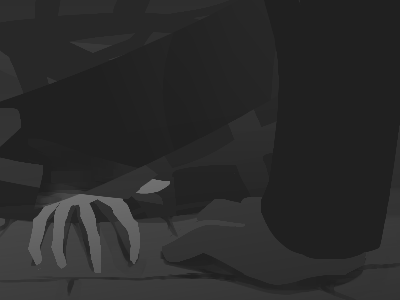
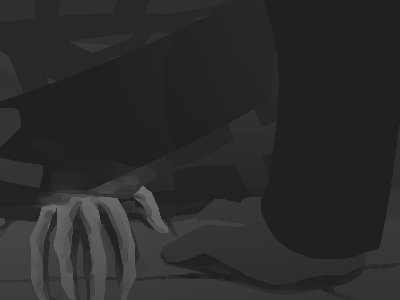
AU wip: ii-2
between yesterday and today

Changed region(s): [[0.06, 0.6, 0.42, 0.99], [0.06, 0.87, 0.12, 0.96], [0.24, 0.9, 0.27, 0.93]]

diff --git a/au/notyet/ii-2.md b/au/notyet/ii-2.md
@@ -7,14 +7,9 @@ next:
   sym: ▶
 css: main>h1{font-size:1em; text-align:center;} nav li:nth-child(n+8){display:none;} header h2{color:#404040;} nav li:nth-child(7){color:#808080;} h1{display:none;} nav{margin-bottom:5em;} main h2{font-size:1.5em; text-align:center; margin-bottom:.5em;} h2 span{display:inline-block;} .procon{text-transform:uppercase; font-size:.75em; letter-spacing:.05em;} figcaption{max-width:400px;}
 ---
-<!--
-- At the end, actually show KL stabbing herself (with *what* idk; maybe Joce grabs herself a “stake” from a rotting plank, and somehow KL grabs it?). Points to her fang, “Your key,” and collapses, dead.
-- No interlude? Next part opens with a parallel flashback to Joce standing over Sal’s body; sparse narration, something like *I shouldn’t have let myself go that far*? IDK but it’s a swift and quiet end from there.
--->
-
 <div class="book" markdown="1">
-<figure><img src="https://via.placeholder.com/600x300.png" alt=""/>
-<figcaption><span class="x">Image: </span>[KL talking to/following Joce?? idk I gotta work out the visuals better]</figcaption></figure>
+<figure><img src="{%include url.html%}/assets/img/au/2-09.png" alt=""/>
+<figcaption><span class="x">Image: </span>Kay Lin steps forward. Joce backs away, grabbing a piece of shrapnel, but it’s chained tight to the chandelier’s remains.</figcaption></figure>
 
 ## <span>Pros and Cons</span> <span>of Biting Joce</span>
 
@@ -26,8 +21,8 @@ css: main>h1{font-size:1em; text-align:center;} nav li:nth-child(n+8){display:no
 
 <span class="procon">Con</span>: She doesn’t even want to hear you speak.
 
-<figure><img src="https://via.placeholder.com/400x300.png" alt=""/>
-<figcaption><span class="x">Image: </span>[KL talking to/following Joce?? idk I gotta work out the visuals better]</figcaption></figure>
+<figure><img src="{%include url.html%}/assets/img/au/2-10.png" alt=""/>
+<figcaption><span class="x">Image: </span>Kay Lin reaches out, speaking (perhaps asking a favor); Joce isn’t listening, pointing the shrapnel her way in aggravted defense.</figcaption></figure>
 
 <span class="procon">Pro</span>: But I've been holding back so long. I deserve it.
 
@@ -47,8 +42,8 @@ css: main>h1{font-size:1em; text-align:center;} nav li:nth-child(n+8){display:no
 
 <span class="procon">Pro</span>: Then it’s too late for me anyway.
 
-<figure><img src="https://via.placeholder.com/400x300.png" alt=""/>
-<figcaption><span class="x">Image: </span>[KL meeting Joce??]</figcaption></figure>
+<figure><img src="{%include url.html%}/assets/img/au/2-11.png" alt=""/>
+<figcaption><span class="x">Image: </span>Flashback: Kay Lin meets Joce on a balcony. Shown in silhouette; she offers a handshake.</figcaption></figure>
 
 -: You like her.
 
@@ -56,14 +51,14 @@ css: main>h1{font-size:1em; text-align:center;} nav li:nth-child(n+8){display:no
 
 -: You just met and you’re attached enough to be having this conflict at all.
 
-+: Okay, so, it’s a *me problem*. I’m sorry I’m miserable and lonely and wanted *one* night out? How was *I* supposed to know, when I panicked and *deliberately removed myself* from the party before I lost it, that she’d *also* be out there like a fucking loser? Hell, the fact we hit it up so well is a point *towards* turning her, because then we’d get to keep, y’know, *getting along* together, and not being stuck on the sidelines, like we apparently always are—
++: Okay, so, it’s a *me problem*. I’m sorry I’m miserable and lonely and wanted *one* night out? How was *I* supposed to know, when I panicked and *deliberately removed myself* from the party before I lost it, that she’d *also* be out there like a fucking loser? Hell, the fact we hit it up so well is a point *towards* turning her, because then we could keep, y’know, *getting along* together, and not being stuck on the sidelines, like we apparently always are—
 
 -: She wouldn’t want that.
 
 +: I almost don’t care.
 
-<figure><img src="https://via.placeholder.com/400x300.png" alt=""/>
-<figcaption><span class="x">Image: </span>[moar stalking... idk what visuals here, maybe like, Uncomfortable Detail Closeup somewhere? don't show either of their faces; either KL POV or make it somehow otherwise clear (shadows? reflections??) that she's following]</figcaption></figure>
+<figure><img src="{%include url.html%}/assets/img/au/2-12.png" alt=""/>
+<figcaption><span class="x">Image: </span>Where Joce goes, Kay Lin isn’t far behind, and she’s still talking. Speech bubbles becoming more shaky. (No acknowledgment from Joce.)</figcaption></figure>
 
 <i>What are you, some kind of psychopath? Leave her alone.</i>
 
@@ -81,21 +76,23 @@ And wicked, too.
 
 But… ahh, see, that's just selfish. I’d come back, and she’d be gone, and it’d all be sad and futile.
 
-<figure><img src="https://via.placeholder.com/400x300.png" alt=""/>
-<figcaption><span class="x">Image: </span>[aaaaa]</figcaption></figure>
+<figure><img src="{%include url.html%}/assets/img/au/2-13.png" alt=""/>
+<figcaption><span class="x">Image: </span>Kay Lin holds out her hands, shaky; speech faltering.</figcaption></figure>
 
 I wish she would just listen to me. I don’t *want* to hurt her. I don’t *want* to watch her slowly die. I don’t know how she’s lasted as long as she has, and I don’t know how much longer I can keep this up.
 
 I’m so close. *She’s right there.* I---
 
-Listen I've tried to be good if I'd spent one more second locked in here tonight I would've gone insane I've been trying so hard it's not my fault the others died do you hear me it's not if I hadn't been out you'd all have been rabbit bait I did you a *favor* I don't want to take advantage of you I didn't want it to come to this I'm offering help while I still can I can only control myself so much please just take it please just do this for me what do you *mean* you've heard it all before---
+<figure><img src="{%include url.html%}/assets/img/au/2-14.png" alt=""/>
+<figcaption><span class="x">Image: </span>Kay Lin grins; crooked, engulfed and swarming in her own frenetic words.</figcaption></figure>
 
-<figure><img src="https://via.placeholder.com/400x300.png" alt=""/>
-<figcaption><span class="x">Image: </span>[Joce is fucking pissed, or something. her interrupting KL here is probably the first time she's acknowledged KL this whole scene?]</figcaption></figure>
+Listen I've tried to be good if I'd spent one more second locked in here tonight I would've gone insane I've been trying so hard it's not my fault the others died it's not if I hadn't been out you'd all have been rabbit bait I did you a *favor* I don't want to take advantage of you I didn't want it to come to this I'm offering help while I still can but I can only control myself so much please just take it please just do this for me what do you *mean* you've heard it all before---
 
-<figure><img src="https://via.placeholder.com/400x300.png" alt=""/>
-<figcaption><span class="x">Image: </span>[but anyway yeah Bam. bite marks]</figcaption></figure>
+<figure><img src="{%include url.html%}/assets/img/au/2-15.png" alt=""/>
+<figcaption><span class="block"><span class="x">Image: </span>Joce turns, infuriated, interrupting: “<strong style="text-transform:uppercase;font-style:italic;">Shut. Up.</strong>”</span> <span class="block">Grabs at her scarf—</span></figcaption></figure>
 
-<figure><img src="https://via.placeholder.com/400x300.png" alt=""/>
-<figcaption><span class="x">Image: </span>[Kay Lin doesn't know what to say. (bonus points if she actually Looks like she's starving but idk how far to push that... depends on detail etc. but should definitely look A Bit Frazzled, endgame-ish]</figcaption></figure>
-</div>
+<figure><img src="{%include url.html%}/assets/img/au/2-16.png" alt=""/>
+<figcaption><span class="x">Image: </span>—yanks it off, Kay Lin stays back—</figcaption></figure>
+
+<figure><img src="{%include url.html%}/assets/img/au/2-17.png" alt=""/>
+<figcaption><span class="x">Image: </span>—and reveals a scar, two dark dots, on her neck.</figcaption></figure>

diff --git a/au/notyet/ii-3.md b/au/notyet/ii-3.md
@@ -5,15 +5,10 @@ sym: 🌓
 next:
   url: i
   sym: 🌒
-css: main>h1{font-size:1em; text-align:center;} nav li:nth-child(n+8){display:none;} header h2{color:#404040;} nav li:nth-child(7){color:#808080;} h1{display:none;} figcaption{max-width:400px;} .cent{text-align:center; margin:-.5em 0 0 1em;}
+css: header{opacity:0;} h1{display:none;} main{margin-top:5em;} figcaption{max-width:400px;} .cent{text-align:center; margin:-.5em 0 0 1em;}
 ---
-<!--
-- At the end, actually show KL stabbing herself (with *what* idk; maybe Joce grabs herself a “stake” from a rotting plank, and somehow KL grabs it?). Points to her fang, “Your key,” and collapses, dead.
-- No interlude? Next part opens with a parallel flashback to Joce standing over Sal’s body; sparse narration, something like *I shouldn’t have let myself go that far*? IDK but it’s a swift and quiet end from there.
--->
-
 <div class="book" markdown="1">
-<figure><img src="https://via.placeholder.com/400x300.png" alt=""/><br/><img src="https://via.placeholder.com/400x300.png" alt=""/><br/><img src="https://via.placeholder.com/400x300.png" alt=""/>
+<figure><img src="{%include url.html%}/assets/img/au/2-18.png" alt=""/><br/><img src="https://via.placeholder.com/400x300.png" alt=""/><br/><img src="https://via.placeholder.com/400x300.png" alt=""/>
 <figcaption><span class="x">Image: </span>[flashback?: Joce nearly let "S" turn her, but changed her mind and fought back, reducing them to ash. Parallels KL attacking Sequitur but this time the victim "wins." Shadows on the wall? don't want to be explicit.]</figcaption></figure>
 
 <figure><img src="https://via.placeholder.com/400x300.png" alt=""/>
@@ -37,7 +32,7 @@ She's going to lose her mind in here. She'd... *rather* lose her mind in here, t
 <figure><img src="https://via.placeholder.com/400x300.png" alt=""/>
 <figcaption><span class="x">Image: </span>[KL frowns, conflicted]</figcaption></figure>
 
-But she has no reason to believe me, even if I <i>you have to do it you have to strike now</i> no no no <i>she's off guard this is your one shot</i> I *will not* let myself I can't I---
+But she has no reason to believe me, even if I <i>you have to act you have to strike now</i> no no no <i>she's off guard this is your one shot</i> I *will not* let myself I can't I---
 
 <figure><img src="https://via.placeholder.com/400x300.png" alt=""/>
 <figcaption><span class="x">Image: </span>[KL reaches out, grabs the metal rod thing---]</figcaption></figure>

diff --git a/au/notyet/ii.md b/au/notyet/ii.md
@@ -31,10 +31,10 @@ I should... at *least* take a look....
 ----
 
 <figure><img src="{%include url.html%}/assets/img/au/2-05.png" alt=""/>
-<figcaption><span class="x">Image: </span>Hands on the ground—one pale and bony, bloody beneath rubble; and the other, Joce, as if kneeling.</figcaption></figure>
+<figcaption><span class="x">Image: </span>Hands on the ground—one pale and bony, oddly long and bloody beneath rubble; and the other belongs to Joce, kneeling.</figcaption></figure>
 
 <figure><img src="{%include url.html%}/assets/img/au/2-06.png" alt=""/>
-<figcaption><span class="x">Image: </span>Kay Lin looks perturbed.</figcaption></figure>
+<figcaption><span class="x">Image: </span>Kay Lin is perturbed.</figcaption></figure>
 
 So <em>that's</em> what happens.
 
